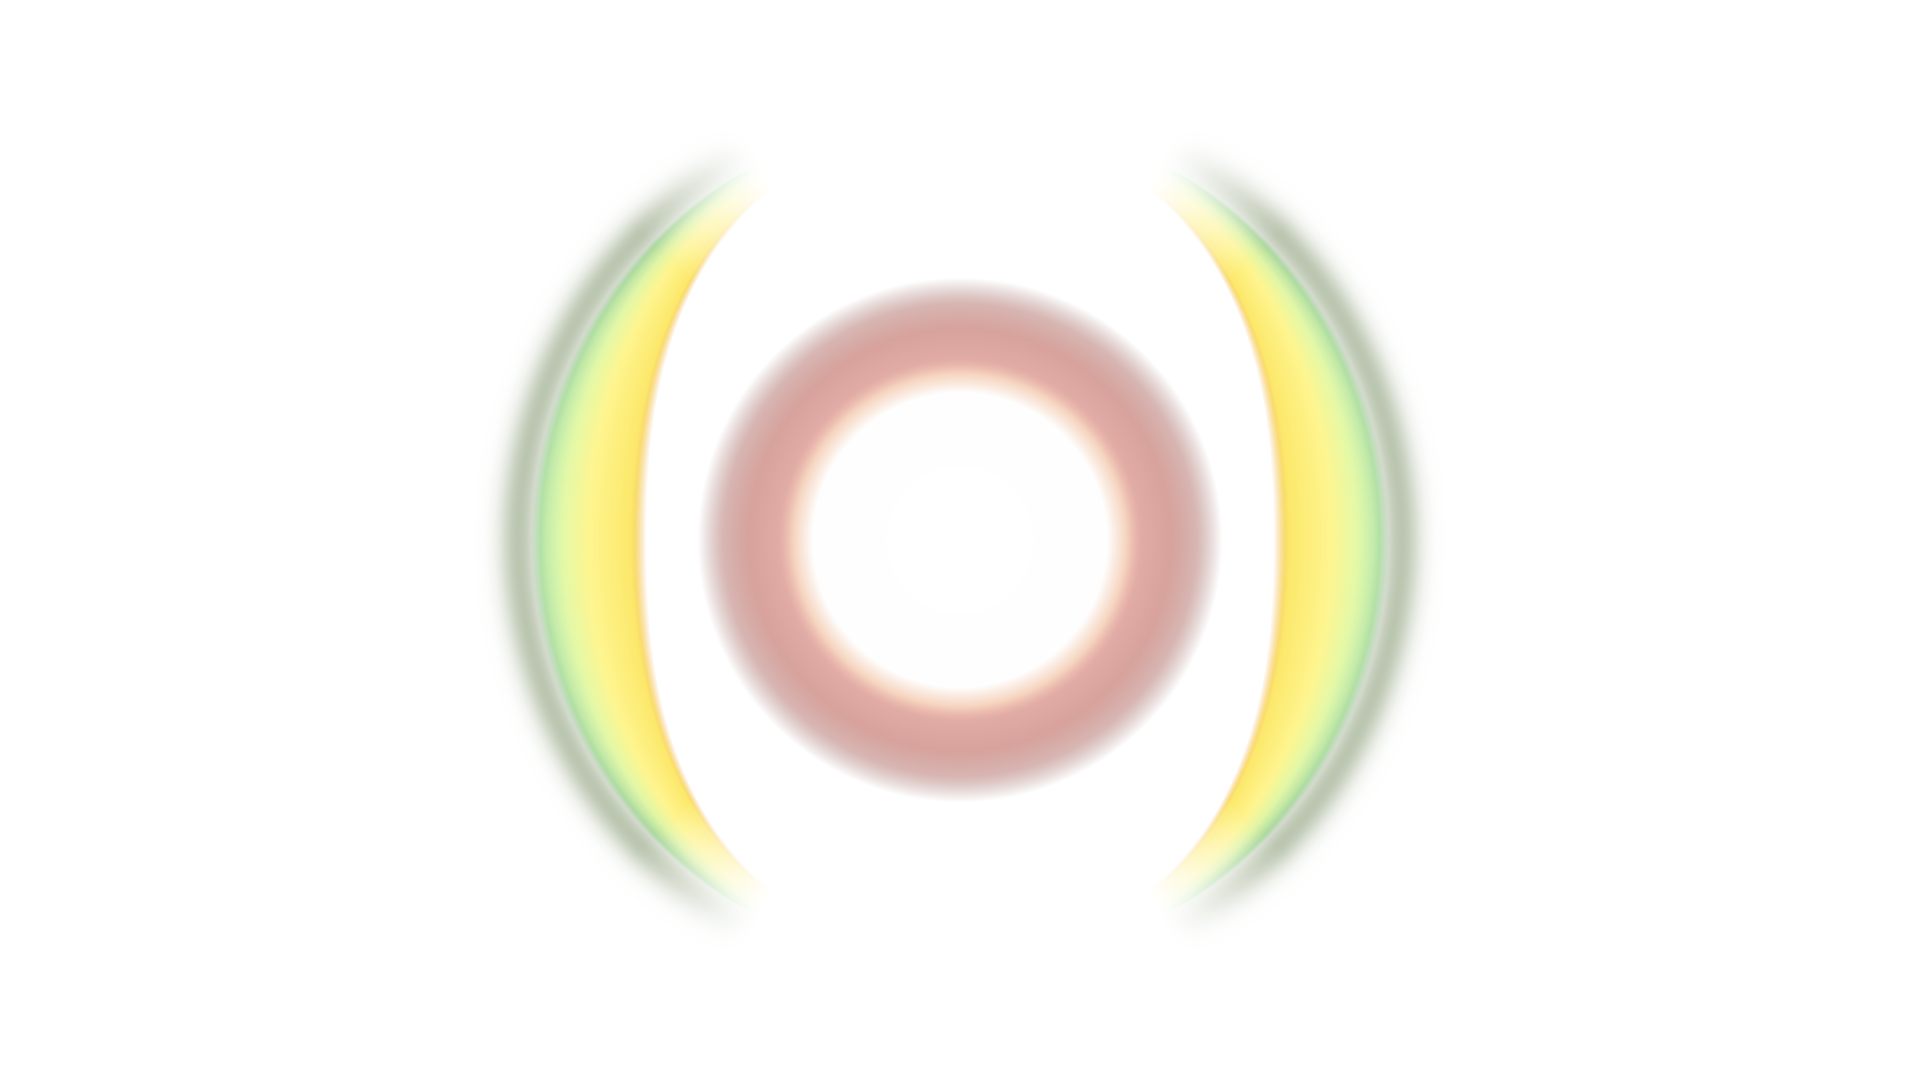
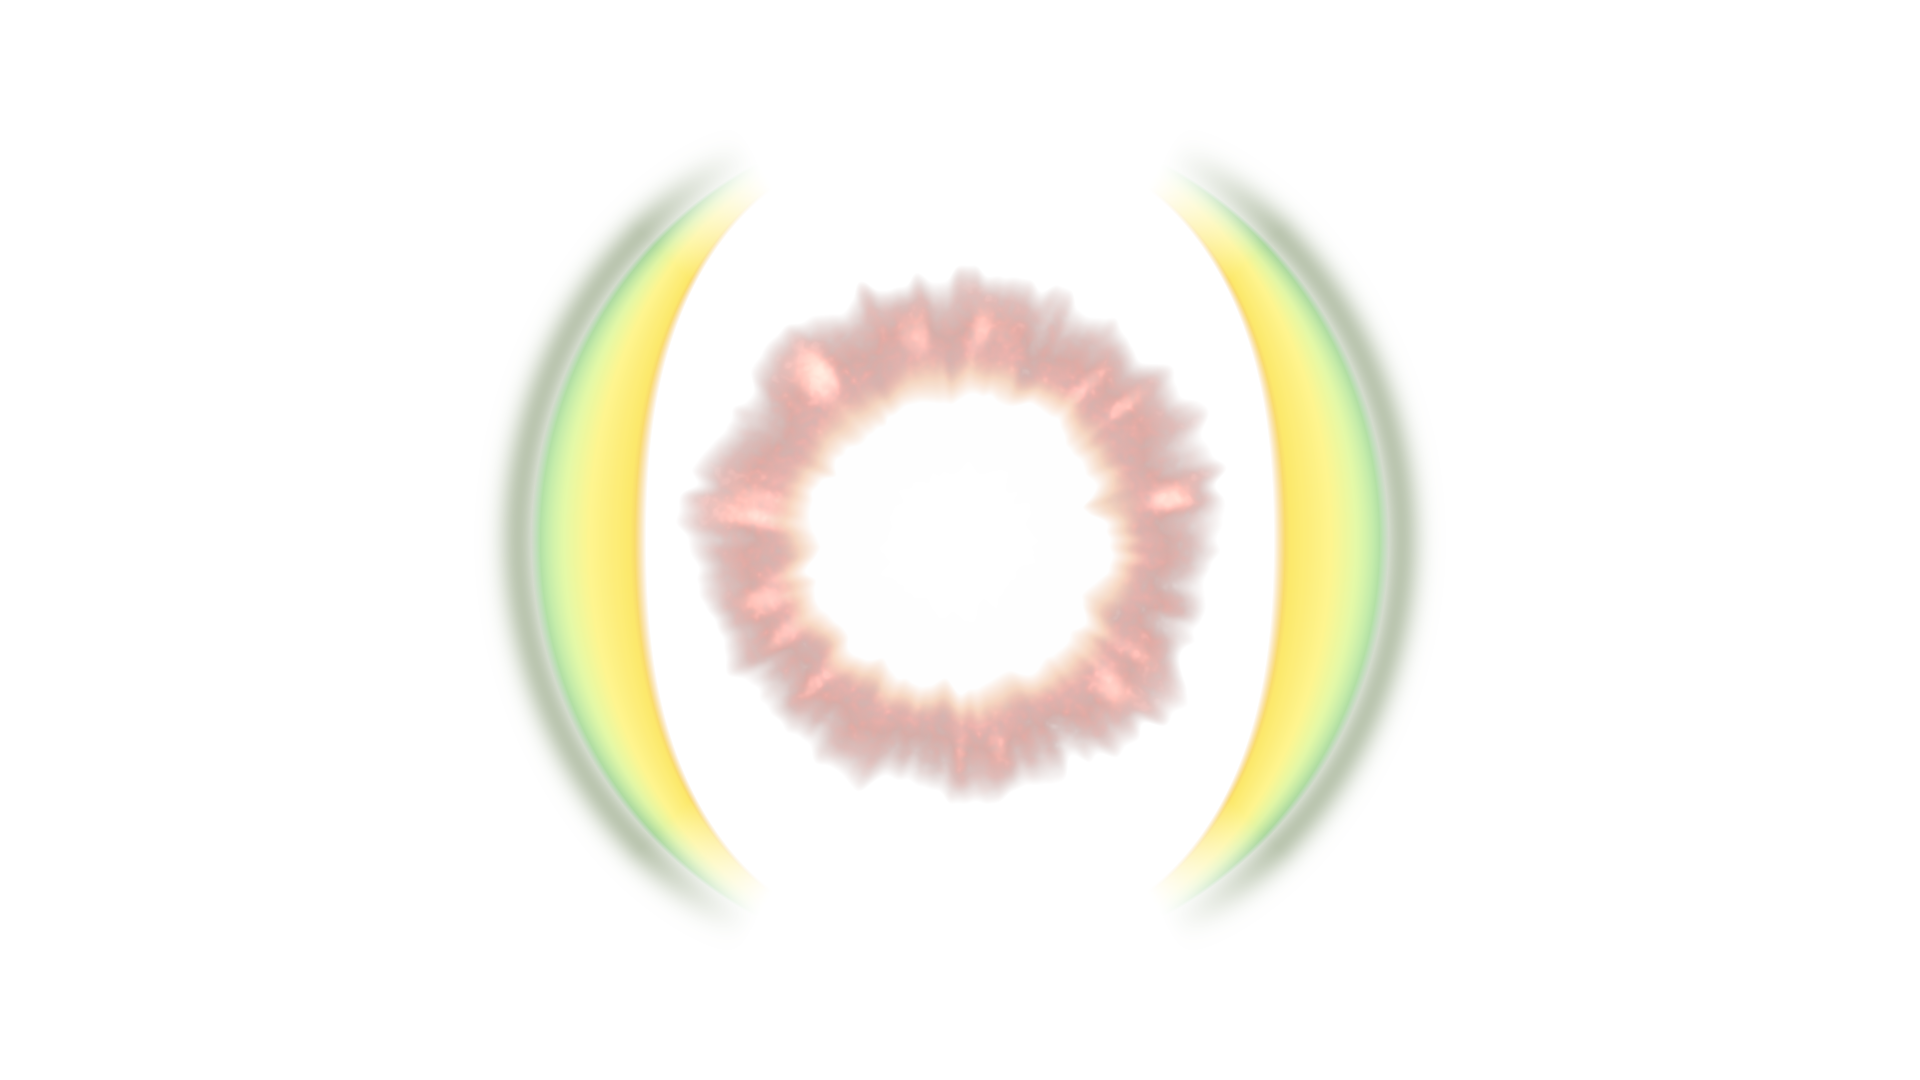
Efekt 10 küre: şeftali kırmızısı güneş koronası gibi dalgalı sıcaklık dokusu
Claude-Session: https://claude.ai/code/session_01E9c1WiJsMc9gXSJZ9D4z6g

diff --git a/arayuz/araclar/efekt10/kure.py b/arayuz/araclar/efekt10/kure.py
@@ -22,11 +22,35 @@ def uzerine(col,al):
 def interp(R_,dur):
     rr=np.array([d[0] for d in dur],np.float32)
     col=np.stack([np.interp(R_,rr,[rk(d[1])[c] for d in dur]) for c in range(3)],-1); al=np.interp(R_,rr,[d[2] for d in dur]); return col,al
-# seftali kirmizisi: ince bant, yari saydam (arkasi secilir)
-col,al=interp(R,[(0,"#E6A49C",0.8),(100,"#E6A49C",0.8),(112,"#DA9690",0.8),(132,"#CC8880",0.78),(148,"#B87A74",0.55),(164,"#8A5E58",0.0)])
-uzerine(col,al)
+# seftali kirmizisi = gunes cevresindeki sicaklik dalgasi (korona): kutupsal fBm gurultu ile dalgali, alevli kenar + ince taneli doku
+from scipy import ndimage
+def fbm(seed,olcekler,agir):
+    rg=np.random.default_rng(seed); n=np.zeros((H,W),np.float32)
+    for sc,w_ in zip(olcekler,agir):
+        z=rg.standard_normal((H//sc+3,W//sc+3)).astype(np.float32)
+        z=ndimage.zoom(ndimage.gaussian_filter(z,1.0),sc,order=3)[:H,:W]; n+=w_*z/ (z.std()+1e-6)
+    return n/np.sqrt(sum(w_*w_ for w_ in agir))
+# kutupsal koordinatta gurultu: aciya gore uzayan (radyal) alev dillleri
+th=(A+np.pi)/(2*np.pi); Pn=np.zeros((H,W),np.float32); rg=np.random.default_rng(5)
+for k,(na,nr,w_) in enumerate([(30,3,0.7),(64,5,0.6),(120,8,0.4)]):
+    z=rg.standard_normal((nr+4,na)).astype(np.float32)
+    zr=np.clip(R/220*nr,0,nr+2); za=th*na
+    i0=np.floor(za).astype(int)%na; i1=(i0+1)%na; fa=za-np.floor(za); j0=np.floor(zr).astype(int); fj=zr-j0
+    v=lambda j,i: z[np.clip(j,0,nr+3),i]
+    sm=lambda f: f*f*(3-2*f)
+    Pn+=w_*((v(j0,i0)*(1-sm(fa))+v(j0,i1)*sm(fa))*(1-sm(fj))+(v(j0+1,i0)*(1-sm(fa))+v(j0+1,i1)*sm(fa))*sm(fj))
+Pn/=1.15; Pn=ndimage.gaussian_filter(Pn,2.0)
+tane=ndimage.gaussian_filter(fbm(9,[2,3],[1.0,0.5]),0.8)                                                  # ince taneli doku (fotograftaki gibi)
+Rw=R-9*Pn                                                                    # dalgali yaricap: alev dilleri disari tasar
+col,al=interp(Rw,[(0,"#E6A49C",0.8),(100,"#E6A49C",0.8),(112,"#DA9690",0.8),(132,"#CC8880",0.78),(148,"#B87A74",0.55),(166,"#8A5E58",0.0)])
+al=al*np.clip(0.9+0.1*Pn+0.05*tane,0,1)
+col=col*np.clip(1+0.04*tane+0.08*Pn,0.85,1.15)[...,None]
+# sicak parlak damarlar (korona isiltisi)
+damar=np.clip(Pn-0.4,0,1)*np.exp(-((Rw-120)/22)**2)
+col=col+ndimage.gaussian_filter(damar,3)[...,None]*rk("#F2C0A8")*0.35
+uzerine(np.clip(col,0,1),al)
 # titanyum beyaz: buyuk, opak; kenari seftaliye yumusak gecer
-col,al=interp(R,[(0,"#FFFFFF",1.0),(92,"#FEFEFE",1.0),(104,"#F8DBC3",0.85),(114,"#EBB8A8",0.0)])
+col,al=interp(R-5*Pn,[(0,"#FFFFFF",1.0),(92,"#FEFEFE",1.0),(104,"#F8DBC3",0.85),(116,"#EBB8A8",0.0)])
 uzerine(col,al)
 # parantezler: dis kenar sabit yay, ic kenar ortada iceri siskin (sari kisim parantezin icinde -> orta kalin), uclar incelip solar
 yan=np.abs(np.cos(A)); aci=np.degrees(np.arccos(np.clip(yan,0,1)))
